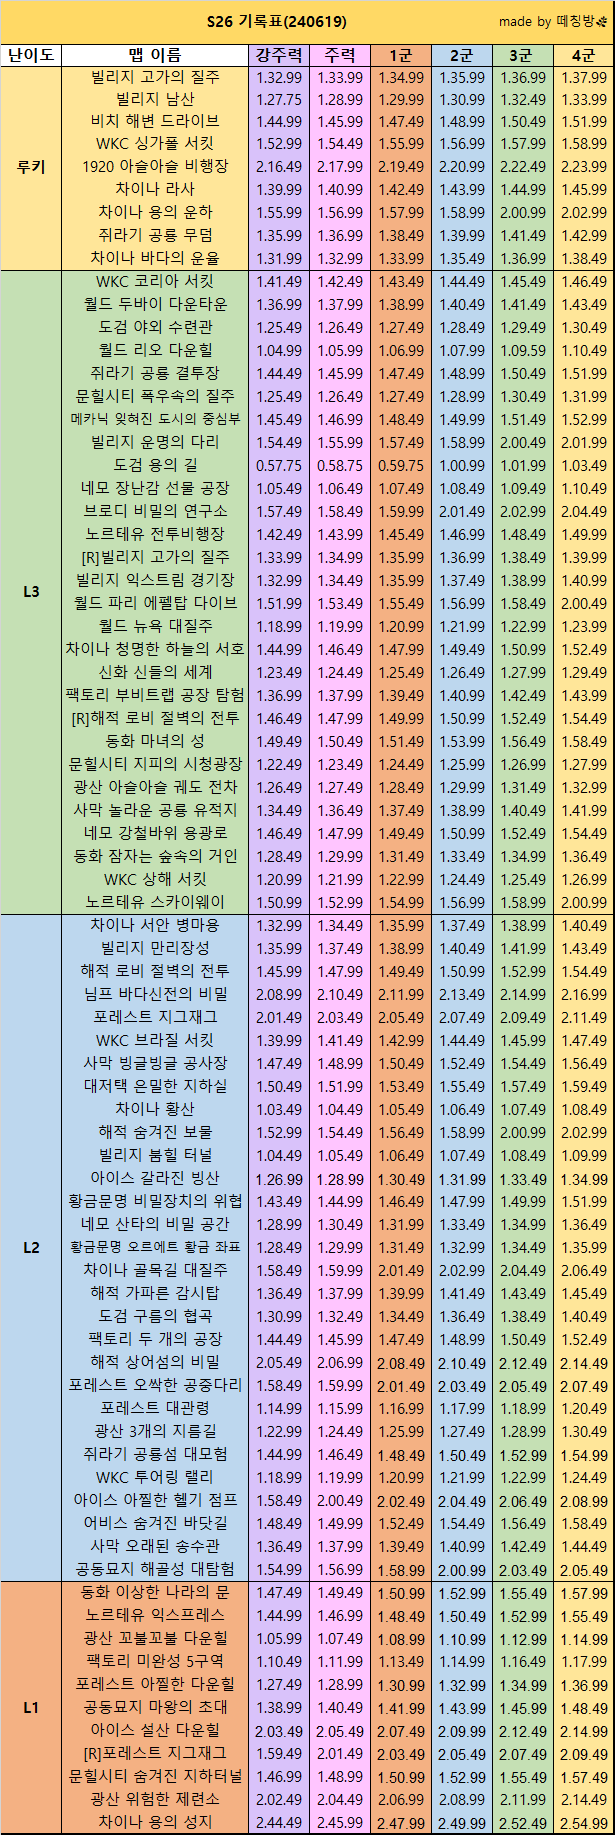
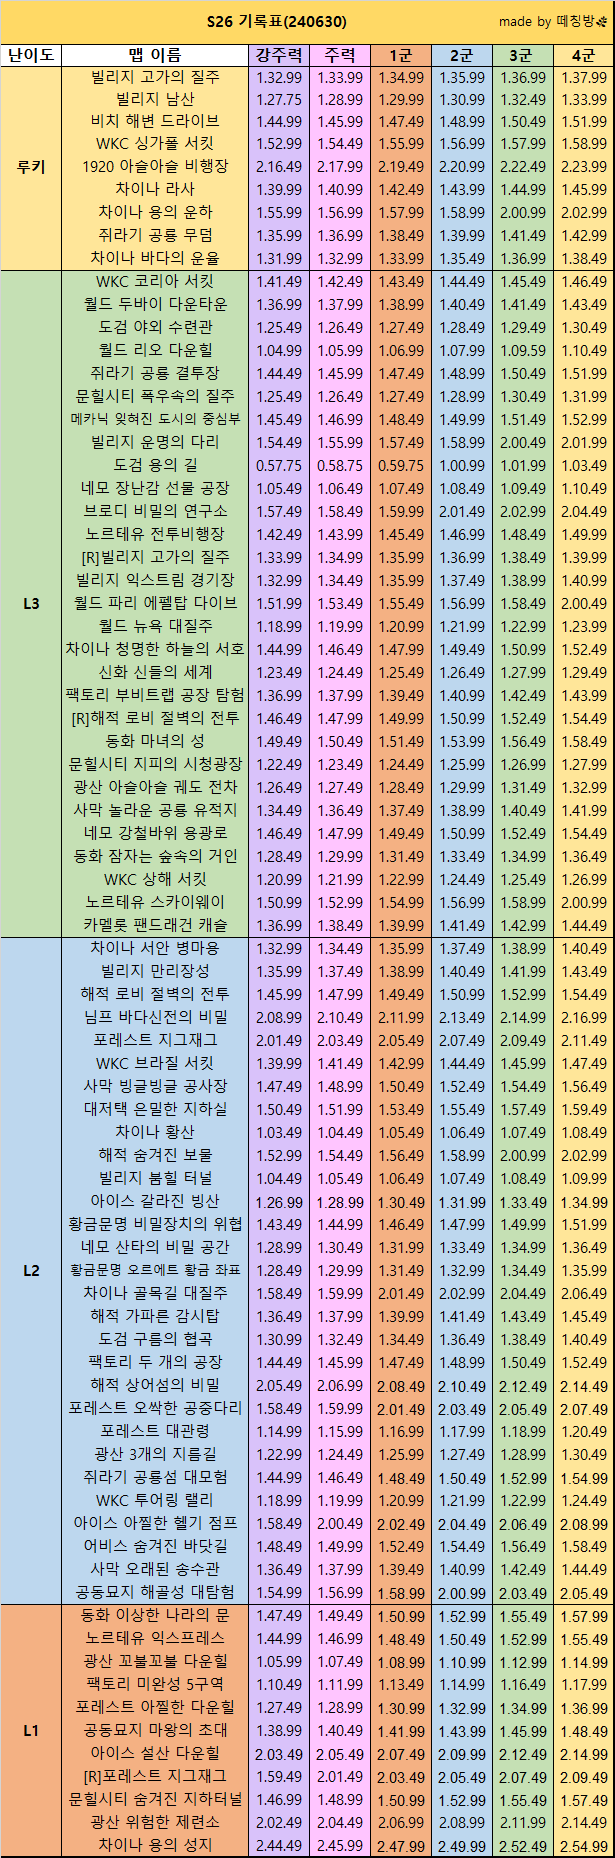
[frontend] feat: New S26 track

Changed region(s): [[0.0, 0.0, 0.9886, 1.0], [0.0309, 0.3106, 0.0618, 0.3417], [0.0309, 0.0621, 0.0618, 0.0932]]

diff --git a/client/src/pages/TestPage/Progress/index.jsx b/client/src/pages/TestPage/Progress/index.jsx
@@ -7,11 +7,13 @@ import {
   MDBIcon,
 } from "mdb-react-ui-kit";
 import { mapCount, mapAllCount } from "../../../global/mapData";
+import ShareToast from "./ShareToast";
 import SearchModal from "./SearchModal";
 
 const computeLength = (value) => (value / mapAllCount) * 100;
 
 function Progress({ num, mapSearch, selected }) {
+  const [showShareToast, setShowShareToast] = useState(false);
   const [searchModal, setSearchModal] = useState(false);
   const [barLength, setBarLength] = useState({
     Lookie: 0,
@@ -88,6 +90,18 @@ function Progress({ num, mapSearch, selected }) {
         />
       </MDBProgress>
       <div className="text-center my-3 fs-4 col-12 col-lg-10 mx-auto position-relative">
+        <MDBBtn
+          className="px-2 position-absolute"
+          color="primary"
+          outline
+          onClick={() => setShowShareToast(true)}
+          style={{ top: 0, left: 0 }}
+        >
+          <MDBIcon fas icon="share-square" />
+          <span className="fw-bold" style={{ marginLeft: 10 }}>
+            트랙 공유
+          </span>
+        </MDBBtn>
         <MDBBadge className="fw-bold">
           {num} / {mapAllCount}
         </MDBBadge>
@@ -104,6 +118,12 @@ function Progress({ num, mapSearch, selected }) {
           </span>
         </MDBBtn>
       </div>
+
+      <ShareToast
+        num={num}
+        showToast={showShareToast}
+        setShowToast={setShowShareToast}
+      />
       <SearchModal
         searchModal={searchModal}
         setSearchModal={setSearchModal}

diff --git a/client/src/pages/TestPage/index.jsx b/client/src/pages/TestPage/index.jsx
@@ -1,5 +1,5 @@
 import { useEffect, useState } from "react";
-import { useNavigate } from "react-router-dom";
+import { useNavigate, useSearchParams } from "react-router-dom";
 import { useSelector } from "react-redux";
 import { MDBContainer } from "mdb-react-ui-kit";
 import { API } from "../../_actions/types";
@@ -14,6 +14,7 @@ import SelectButtons from "./SelectButtons";
 function TestPage() {
   const userData = useSelector((state) => state.user.userData);
   const navigation = useNavigate();
+  const [searchParams] = useSearchParams();
   const [num, setNum] = useState(1);
   const [selected, setSelected] = useState(undefined);
   const [selectList, setSelectList] = useState([undefined]);
@@ -109,6 +110,10 @@ function TestPage() {
       .then((response) => {
         if (response.data.success && response.data.record !== null)
           setLatestRecord(response.data.record.record);
+
+        const track = searchParams.get("track");
+        setNum(parseInt(track) || 1);
+
         setLoading(false);
       });
   }, [userData.isAuth, userData._id]);

diff --git a/client/src/pages/TestPage/Progress/ShareToast/index.jsx b/client/src/pages/TestPage/Progress/ShareToast/index.jsx
@@ -1,0 +1,39 @@
+import { useEffect } from "react";
+import {
+  MDBBtn,
+  MDBModal,
+  MDBModalDialog,
+  MDBModalContent,
+  MDBModalBody,
+} from "mdb-react-ui-kit";
+
+function ShareToast({ num, showToast, setShowToast }) {
+  useEffect(() => {
+    if (!showToast) return;
+    navigator.clipboard.writeText(
+      `https://kartrush.mylicense.kro.kr/test?track=${num}`
+    );
+  }, [showToast]);
+
+  return (
+    <MDBModal
+      animationDirection="bottom"
+      show={showToast}
+      tabIndex="-1"
+      setShow={setShowToast}
+    >
+      <MDBModalDialog>
+        <MDBModalContent>
+          <MDBModalBody className="p-3 d-flex flex-column align-items-center gap-1">
+            <p className="fw-bold">현재 트랙 링크가 복사되었습니다.</p>
+            <MDBBtn className="w-100" onClick={() => setShowToast(false)}>
+              확인
+            </MDBBtn>
+          </MDBModalBody>
+        </MDBModalContent>
+      </MDBModalDialog>
+    </MDBModal>
+  );
+}
+
+export default ShareToast;

diff --git a/client/src/global/mapImages.js b/client/src/global/mapImages.js
@@ -37,6 +37,7 @@ import L3_026 from "../assets/images/map/026 네모 강철바위 용광로.png";
 import L3_027 from "../assets/images/map/027 동화 잠자는 숲속의 거인.png";
 import L3_028 from "../assets/images/map/028 WKC 상해 서킷.png";
 import L3_029 from "../assets/images/map/029 노르테유 스카이웨이.png";
+import L3_030 from "../assets/images/map/030 카멜롯 팬드래건 캐슬.png";
 
 import L2_001 from "../assets/images/map/001 병마용.png";
 import L2_002 from "../assets/images/map/002 만리장성.png";
@@ -120,6 +121,7 @@ const mapImages = [
   L3_027,
   L3_028,
   L3_029,
+  L3_030,
 
   L2_001,
   L2_002,

diff --git a/client/src/global/mapData.js b/client/src/global/mapData.js
@@ -494,6 +494,19 @@ const mapData = [
     ],
     image: "029 노르테유 스카이웨이.png",
   },
+  {
+    name: "카멜롯 팬드래건 캐슬",
+    record: [
+      "01:36:99",
+      "01:38:49",
+      "01:39:99",
+      "01:41:49",
+      "01:42:99",
+      "01:44:49",
+      "01:44:49 +",
+    ],
+    image: "030 카멜롯 팬드래건 캐슬.png",
+  },
 
   {
     name: "차이나 서안 병마용",
@@ -1020,7 +1033,7 @@ const mapData = [
 
 const mapCount = {
   Rookie: 9,
-  L3: 28,
+  L3: 29,
   L2: 29,
   L1: 11,
 };
